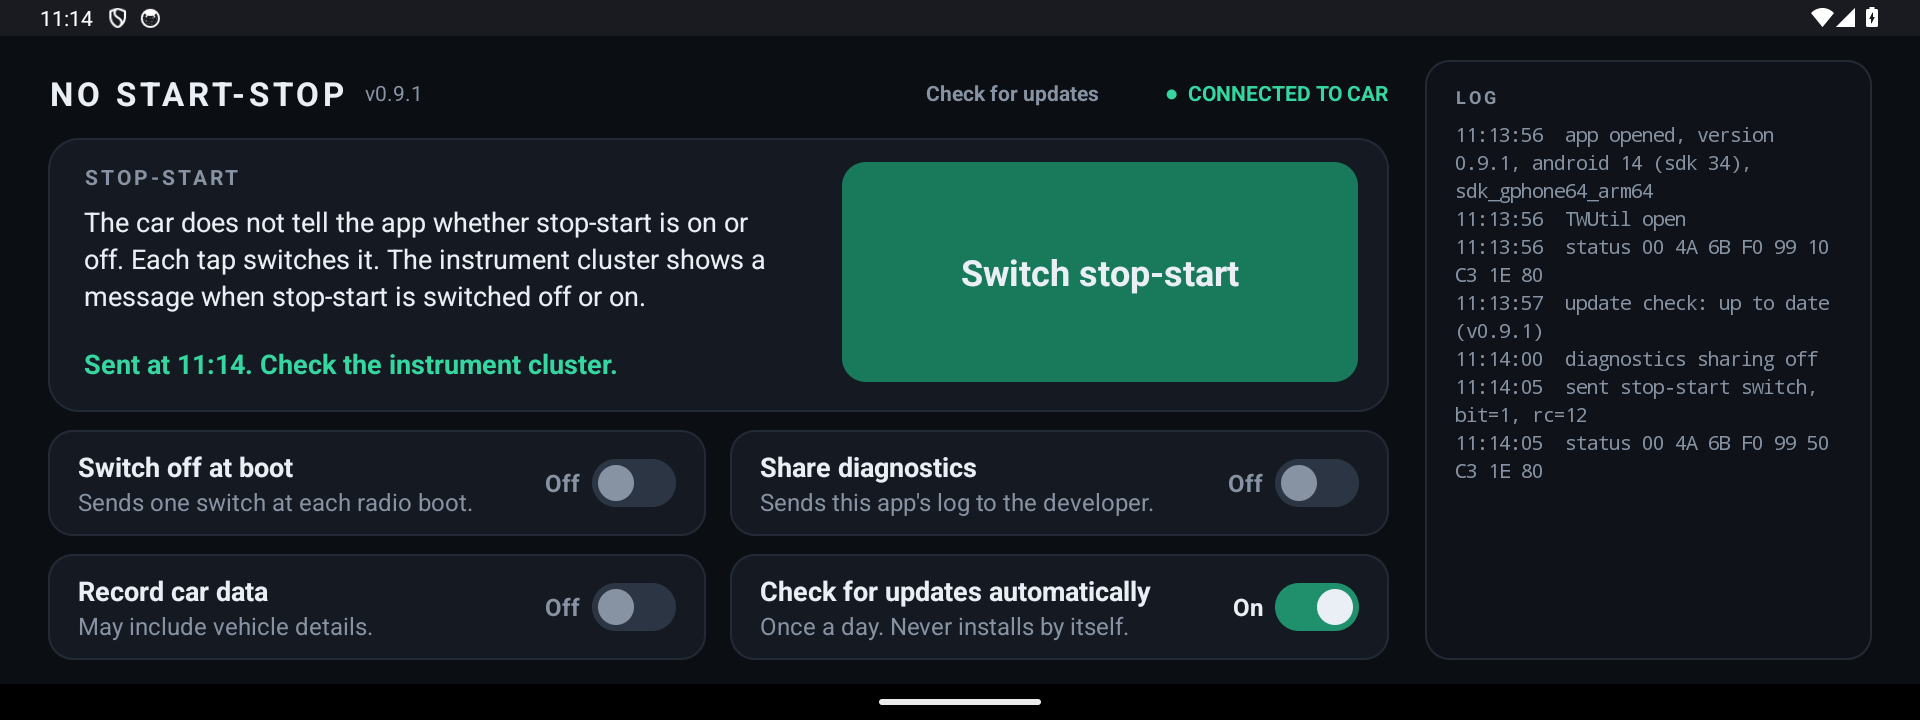
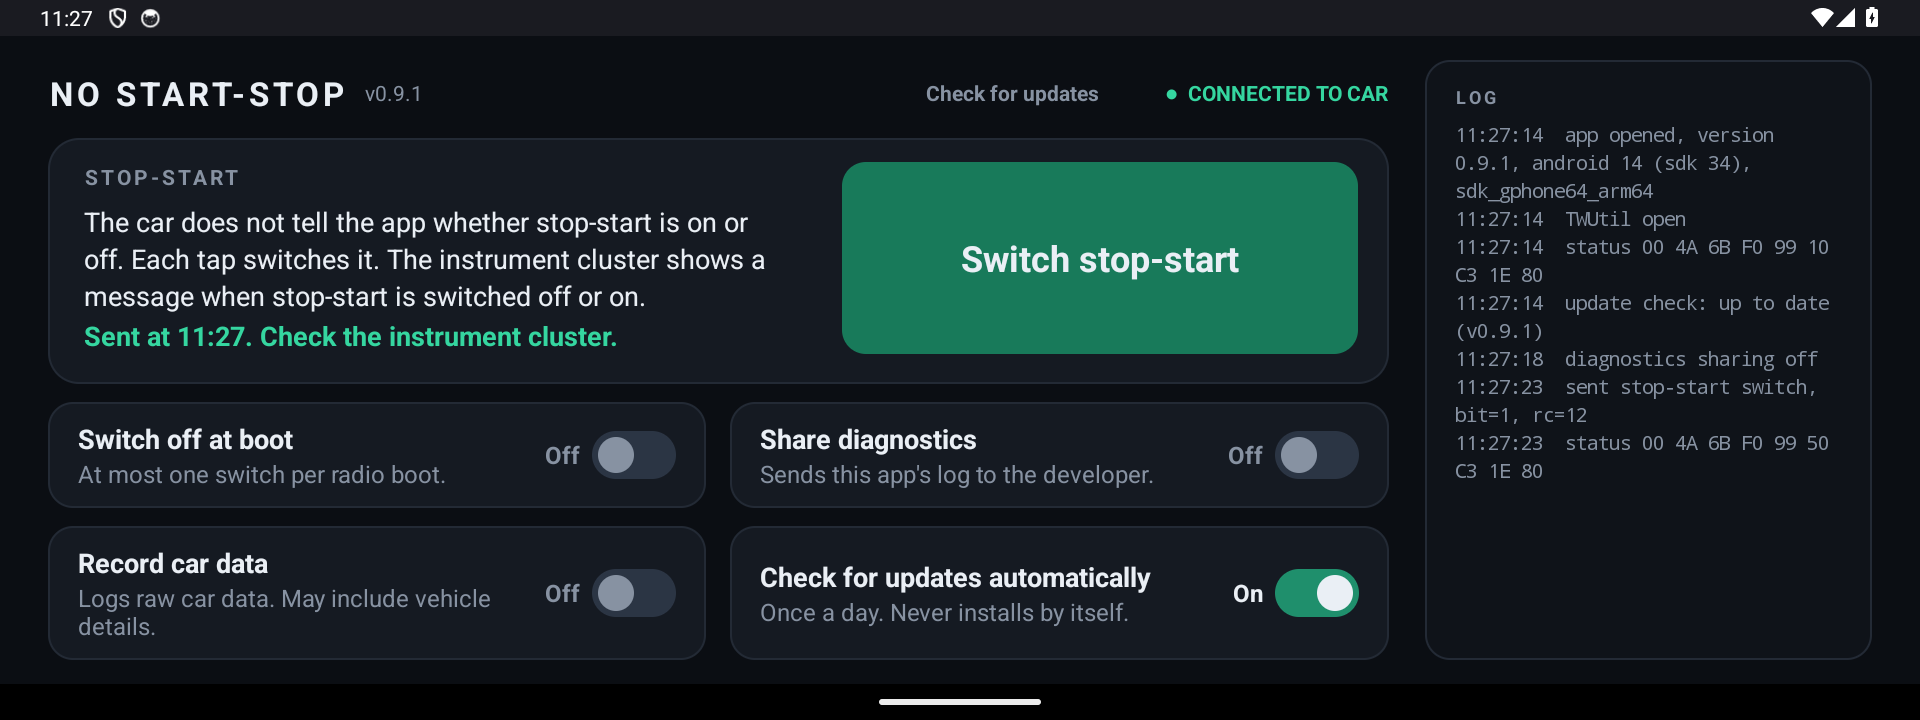
Fix review findings in the update check

diff --git a/src/com/furgo/nostartstop/UpdateJob.java b/src/com/furgo/nostartstop/UpdateJob.java
@@ -28,7 +28,7 @@ public class UpdateJob extends JobService {
     private static final long PERIOD_MS = 24 * 60 * 60 * 1000L;
     private static final long BACKOFF_MS = 15 * 60 * 1000L;
     private static final String CHANNEL = "updates";
-    private static final int NOTIFICATION_ID = 1;
+    private static final int NOTIFICATION_ID = 2;   // 1 is BootService's foreground notification
     private static final Object LOCK = new Object();
 
     /** Set by MainActivity while it is shown; run on the main thread after each job run. */
@@ -84,6 +84,8 @@ public class UpdateJob extends JobService {
                     retry = !work(app);
                 } catch (InterruptedException e) {
                     // Stopped by onStopJob, which already asked JobScheduler to run the job again.
+                } catch (RuntimeException e) {
+                    LogFile.append(app, "update job failed: " + UpdateCheck.reason(e));
                 } finally {
                     finish(params, retry);
                 }
@@ -98,8 +100,9 @@ public class UpdateJob extends JobService {
 
     private void finish(JobParameters params, boolean retry) {
         synchronized (running) {
-            // Gone when onStopJob came first: JobScheduler then no longer expects jobFinished.
-            if (running.remove(params.getJobId()) != Thread.currentThread()) return;
+            // Gone or replaced when onStopJob came first: JobScheduler then no longer expects jobFinished from this thread.
+            if (running.get(params.getJobId()) != Thread.currentThread()) return;
+            running.remove(params.getJobId());
         }
         jobFinished(params, retry);
         Runnable r = onResult;
@@ -144,16 +147,16 @@ public class UpdateJob extends JobService {
         Updater.Release latest;
         try {
             latest = Updater.latest();
+        } catch (Updater.NoApkException e) {
+            // A release without an APK is an answer, not a failure: wait for the next check.
+            completedWithout(app, "release has no APK");
+            return true;
         } catch (Exception e) {
-            String reason = UpdateCheck.reason(e);
-            if (!reason.equals(Prefs.updateFailure(app))) {
-                Prefs.setUpdateFailure(app, reason);
-                LogFile.append(app, "update check failed: " + reason);
-            }
+            logFailure(app, UpdateCheck.reason(e));
             return false;
         }
         if (!UpdateCheck.validTag(latest.tag)) {
-            LogFile.append(app, "update check failed: unexpected tag");
+            completedWithout(app, "unexpected tag");
             return true;
         }
         remember(app, latest.tag);
@@ -167,6 +170,23 @@ public class UpdateJob extends JobService {
             Prefs.setNotifiedTag(app, latest.tag);
         }
         return true;
+    }
+
+    private static void logFailure(Context app, String reason) {
+        if (reason.equals(Prefs.updateFailure(app))) return;
+        Prefs.setUpdateFailure(app, reason);
+        LogFile.append(app, "update check failed: " + reason);
+    }
+
+    /** Counts the check as done, keeping the stored tag, so it is not repeated before the next one is due. */
+    private static void completedWithout(Context app, String reason) {
+        logFailure(app, reason);
+        Prefs.setUpdateCheckedAt(app, System.currentTimeMillis());
+    }
+
+    static void cancelNotification(Context context) {
+        NotificationManager nm = (NotificationManager) context.getSystemService(Context.NOTIFICATION_SERVICE);
+        if (nm != null) nm.cancel(NOTIFICATION_ID);
     }
 
     private static void notifyUpdate(Context app, String tag) {

diff --git a/src/com/furgo/nostartstop/MainActivity.java b/src/com/furgo/nostartstop/MainActivity.java
@@ -328,7 +328,7 @@ public class MainActivity extends Activity implements CanBox.Listener {
         updateBusy = true;
         final Updater.Release found = available;
         handler.removeCallbacks(revertUpdate);
-        showUpdate(found == null ? "Checking…" : "Downloading " + found.tag + "…", MUTED, false);
+        showUpdate(found == null || found.apkUrl == null ? "Checking…" : "Downloading " + found.tag + "…", MUTED, false);
         new Thread(new Runnable() {
             @Override
             public void run() {
@@ -364,6 +364,7 @@ public class MainActivity extends Activity implements CanBox.Listener {
             showIdleUpdate();
             if (installNow) onUpdateClick();
         } else {
+            available = null;
             onLog("no update: latest release is " + latest.tag + ", installed is " + versionName());
             showUpdate("Up to date", TEXT, false);
             handler.postDelayed(revertUpdate, REVERT_MS);
@@ -390,6 +391,7 @@ public class MainActivity extends Activity implements CanBox.Listener {
         String installed = versionName();
         if (available != null && !Version.isNewer(available.tag, installed)) available = null;
         String tag = UpdateCheck.offerable(Prefs.latestTag(this), installed);
+        if (tag == null) UpdateJob.cancelNotification(this);
         // Its APK URL is not stored: tapping Install fetches the release again.
         if (tag != null && (available == null || Version.isNewer(tag, available.tag))) {
             available = new Updater.Release(tag, null);
@@ -619,7 +621,7 @@ public class MainActivity extends Activity implements CanBox.Listener {
         LinearLayout settings = new LinearLayout(this);
         settings.setOrientation(LinearLayout.HORIZONTAL);
         bootSwitch = addSetting(settings, "Switch off at boot",
-                "Sends one switch at each radio boot.",
+                "At most one switch per radio boot.",
                 new View.OnClickListener() {
                     @Override
                     public void onClick(View v) {
@@ -642,7 +644,7 @@ public class MainActivity extends Activity implements CanBox.Listener {
 
         LinearLayout capture = new LinearLayout(this);
         captureSwitch = addSetting(capture, "Record car data",
-                "May include vehicle details.",
+                "Logs raw car data. May include vehicle details.",
                 new View.OnClickListener() {
                     @Override
                     public void onClick(View v) {

diff --git a/src/com/furgo/nostartstop/BootReceiver.java b/src/com/furgo/nostartstop/BootReceiver.java
@@ -9,13 +9,18 @@ public class BootReceiver extends BroadcastReceiver {
     @Override
     public void onReceive(Context context, Intent intent) {
         if (!Intent.ACTION_BOOT_COMPLETED.equals(intent.getAction())) return;
-        UpdateJob.schedule(context, true);
-        if (!Prefs.applyAtBoot(context)) return;
-        Intent i = new Intent(context, BootService.class);
-        if (Build.VERSION.SDK_INT >= 26) {
-            context.startForegroundService(i);
-        } else {
-            context.startService(i);
+        if (Prefs.applyAtBoot(context)) {
+            Intent i = new Intent(context, BootService.class);
+            if (Build.VERSION.SDK_INT >= 26) {
+                context.startForegroundService(i);
+            } else {
+                context.startService(i);
+            }
+        }
+        try {
+            UpdateJob.schedule(context, true);
+        } catch (RuntimeException e) {
+            LogFile.append(context, "update job not scheduled: " + UpdateCheck.reason(e));
         }
     }
 }

diff --git a/src/com/furgo/nostartstop/Updater.java b/src/com/furgo/nostartstop/Updater.java
@@ -40,6 +40,14 @@ final class Updater {
         }
     }
 
+    static final class NoApkException extends IOException {
+        private static final long serialVersionUID = 1L;
+
+        NoApkException(String message) {
+            super(message);
+        }
+    }
+
     static Release latest() throws IOException, JSONException {
         HttpURLConnection c = open(LATEST_URL);
         try {
@@ -52,7 +60,7 @@ final class Updater {
                 String url = assets.getJSONObject(i).getString("browser_download_url");
                 if (url.startsWith(DOWNLOAD_PREFIX) && url.endsWith(".apk")) return new Release(tag, url);
             }
-            throw new IOException("release " + tag + " has no APK");
+            throw new NoApkException("release " + tag + " has no APK");
         } finally {
             c.disconnect();
         }

diff --git a/src/com/furgo/nostartstop/Prefs.java b/src/com/furgo/nostartstop/Prefs.java
@@ -149,6 +149,11 @@ final class Prefs {
         prefs(c).edit().putString(LATEST_TAG, tag).putLong(UPDATE_CHECKED_AT, at).remove(UPDATE_FAILURE).apply();
     }
 
+    /** Keeps the stored failure, so the same reason is still logged only once. */
+    static void setUpdateCheckedAt(Context c, long at) {
+        prefs(c).edit().putLong(UPDATE_CHECKED_AT, at).apply();
+    }
+
     static String notifiedTag(Context c) {
         return prefs(c).getString(NOTIFIED_TAG, null);
     }
